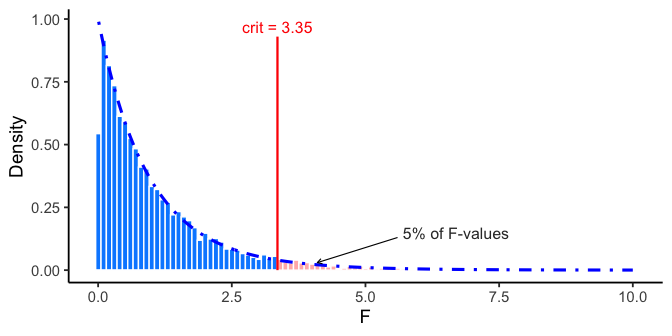
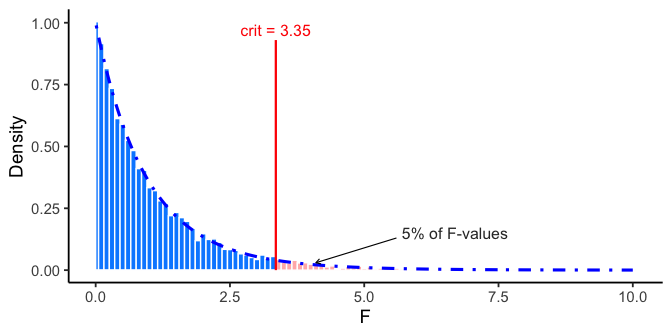
Ch8 correctness audit: 13 accepted fixes
Salamander data described as simulated (matches Lab 11); section renamed
'The full ANOVA workflow'; mean-square rationale corrected (SS_Between exceeds
SS_Within in the chapter's own example); F-distribution alt text, critical-F
first bin, interval-overlap alt text; F and MS_Between described in variance
terms; computed critical value in the Type I simulation. House style: visible
R calls, Method columns dropped, summary lead-ins, two bold pseudo-headings
promoted to ###, two captions.

diff --git a/docs/08-ANOVA.html b/docs/08-ANOVA.html
@@ -27,6 +27,41 @@ ul.task-list li input[type="checkbox"] {
   margin: 0 0.8em 0.2em -1em; /* quarto-specific, see https://github.com/quarto-dev/quarto-cli/issues/4556 */ 
   vertical-align: middle;
 }
+/* CSS for syntax highlighting */
+html { -webkit-text-size-adjust: 100%; }
+pre > code.sourceCode { white-space: pre; position: relative; }
+pre > code.sourceCode > span { display: inline-block; line-height: 1.25; }
+pre > code.sourceCode > span:empty { height: 1.2em; }
+.sourceCode { overflow: visible; }
+code.sourceCode > span { color: inherit; text-decoration: inherit; }
+div.sourceCode { margin: 1em 0; }
+pre.sourceCode { margin: 0; }
+@media screen {
+div.sourceCode { overflow: auto; }
+}
+@media print {
+pre > code.sourceCode { white-space: pre-wrap; }
+pre > code.sourceCode > span { text-indent: -5em; padding-left: 5em; }
+}
+pre.numberSource code
+  { counter-reset: source-line 0; }
+pre.numberSource code > span
+  { position: relative; left: -4em; counter-increment: source-line; }
+pre.numberSource code > span > a:first-child::before
+  { content: counter(source-line);
+    position: relative; left: -1em; text-align: right; vertical-align: baseline;
+    border: none; display: inline-block;
+    -webkit-touch-callout: none; -webkit-user-select: none;
+    -khtml-user-select: none; -moz-user-select: none;
+    -ms-user-select: none; user-select: none;
+    padding: 0 4px; width: 4em;
+  }
+pre.numberSource { margin-left: 3em;  padding-left: 4px; }
+div.sourceCode
+  {   }
+@media screen {
+pre > code.sourceCode > span > a:first-child::before { text-decoration: underline; }
+}
 /* CSS for citations */
 div.csl-bib-body { }
 div.csl-entry {
@@ -277,8 +312,10 @@ window.Quarto = {
   <ul class="collapse">
   <li><a href="#making-decisions" id="toc-making-decisions" class="nav-link" data-scroll-target="#making-decisions"><span class="header-section-number">8.3.1</span> Making decisions</a></li>
   <li><a href="#f-and-the-means" id="toc-f-and-the-means" class="nav-link" data-scroll-target="#f-and-the-means"><span class="header-section-number">8.3.2</span> F and the means</a></li>
+  <li><a href="#anova-is-an-omnibus-test" id="toc-anova-is-an-omnibus-test" class="nav-link" data-scroll-target="#anova-is-an-omnibus-test"><span class="header-section-number">8.3.3</span> ANOVA is an omnibus test</a></li>
+  <li><a href="#what-group-means-look-like-when-f-exceeds-the-critical-value" id="toc-what-group-means-look-like-when-f-exceeds-the-critical-value" class="nav-link" data-scroll-target="#what-group-means-look-like-when-f-exceeds-the-critical-value"><span class="header-section-number">8.3.4</span> What group means look like when <span class="math inline">\(F\)</span> exceeds the critical value</a></li>
   </ul></li>
-  <li><a href="#anova-on-real-data" id="toc-anova-on-real-data" class="nav-link" data-scroll-target="#anova-on-real-data"><span class="header-section-number">8.4</span> ANOVA on real data</a>
+  <li><a href="#the-full-anova-workflow" id="toc-the-full-anova-workflow" class="nav-link" data-scroll-target="#the-full-anova-workflow"><span class="header-section-number">8.4</span> The full ANOVA workflow</a>
   <ul class="collapse">
   <li><a href="#salamander-abundance-across-forest-types" id="toc-salamander-abundance-across-forest-types" class="nav-link" data-scroll-target="#salamander-abundance-across-forest-types"><span class="header-section-number">8.4.1</span> Salamander abundance across forest types</a></li>
   <li><a href="#checking-anovas-assumptions" id="toc-checking-anovas-assumptions" class="nav-link" data-scroll-target="#checking-anovas-assumptions"><span class="header-section-number">8.4.2</span> Checking ANOVA’s assumptions</a></li>
@@ -318,7 +355,7 @@ window.Quarto = {
     <div>
     <div class="quarto-title-meta-heading">Modified</div>
     <div class="quarto-title-meta-contents">
-      <p class="date-modified">September 29, 2026</p>
+      <p class="date-modified">September 30, 2026</p>
     </div>
   </div>
     
@@ -399,14 +436,14 @@ Figure&nbsp;8.1: Familywise Type I error rate as the number of independent t-tes
 <p><span class="math display">\[F = \frac{\text{measure of effect}}{\text{measure of error}}\]</span></p>
 <p>The difference is that <span class="math inline">\(F\)</span> uses variances for both the numerator and the denominator, so <span class="math inline">\(F\)</span> is a ratio of two variances: the variance you can explain (differences between group means) over the variance you can’t (leftover noise within each group).</p>
 <p><span class="math display">\[F = \frac{\text{Can explain}}{\text{Can't explain}}\]</span></p>
-<p>When the two are about the same size, <span class="math inline">\(F\approx 1\)</span>: group differences are no bigger than ordinary sampling noise. When explained variance is much larger than unexplained variance, <span class="math inline">\(F\)</span> climbs well above 1, which is evidence that the groups differ. When it’s smaller, <span class="math inline">\(F\)</span> drops below 1. An <span class="math inline">\(F\)</span> of 5 means the group means are spread out five times more than the noise within groups would spread them on its own. An <span class="math inline">\(F\)</span> of 0.6 means they are spread out less than that noise alone would typically produce.</p>
+<p>When the two are about the same size, <span class="math inline">\(F\approx 1\)</span>: group differences are no bigger than ordinary sampling noise. When explained variance is much larger than unexplained variance, <span class="math inline">\(F\)</span> climbs well above 1, which is evidence that the groups differ. When it’s smaller, <span class="math inline">\(F\)</span> drops below 1. An <span class="math inline">\(F\)</span> of 5 means the group means vary five times as much as within-group noise alone would make them vary, measured in squared units. An <span class="math inline">\(F\)</span> of 0.6 means they vary less than that noise alone would typically produce.</p>
 <p><a href="#fig-8betweenwithin" class="quarto-xref">Figure&nbsp;<span>8.2</span></a> shows both situations with the same noise. On the left, the group means differ by no more than the scatter within each group would produce. On the right, the means are separated by much more than that scatter. <span class="math inline">\(F\)</span> measures that separation relative to the within-group scatter.</p>
 <div class="cell">
 <div class="cell-output-display">
-<div id="fig-8betweenwithin" class="quarto-float quarto-figure quarto-figure-center anchored" alt="Two side-by-side panels on the same vertical scale, each showing three groups of 12 jittered points with a group mean and 95% confidence interval. In the left panel, labeled no real differences, the three means sit near 10 and their intervals overlap heavily. In the right panel, labeled means shifted, the means climb from about 10 to about 12 to about 16 and the intervals no longer overlap, while the spread of points within each group is the same as on the left.">
+<div id="fig-8betweenwithin" class="quarto-float quarto-figure quarto-figure-center anchored" alt="Two side-by-side panels on the same vertical scale, each showing three groups of 12 jittered points with a group mean and 95% confidence interval. In the left panel, labeled no real differences, the three means sit near 10 and their intervals overlap heavily. In the right panel, labeled means shifted, the means climb from about 10 to about 12 to about 16. The Group C interval is clear of the other two, and A and B overlap only slightly, while the spread of points within each group is the same as on the left.">
 <figure class="quarto-float quarto-float-fig figure">
 <div aria-describedby="fig-8betweenwithin-caption-0ceaefa1-69ba-4598-a22c-09a6ac19f8ca">
-<img src="08-ANOVA_files/figure-html/fig-8betweenwithin-1.png" class="img-fluid figure-img" style="width:100.0%" alt="Two side-by-side panels on the same vertical scale, each showing three groups of 12 jittered points with a group mean and 95% confidence interval. In the left panel, labeled no real differences, the three means sit near 10 and their intervals overlap heavily. In the right panel, labeled means shifted, the means climb from about 10 to about 12 to about 16 and the intervals no longer overlap, while the spread of points within each group is the same as on the left.">
+<img src="08-ANOVA_files/figure-html/fig-8betweenwithin-1.png" class="img-fluid figure-img" style="width:100.0%" alt="Two side-by-side panels on the same vertical scale, each showing three groups of 12 jittered points with a group mean and 95% confidence interval. In the left panel, labeled no real differences, the three means sit near 10 and their intervals overlap heavily. In the right panel, labeled means shifted, the means climb from about 10 to about 12 to about 16. The Group C interval is clear of the other two, and A and B overlap only slightly, while the spread of points within each group is the same as on the left.">
 </div>
 <figcaption class="quarto-float-caption-bottom quarto-float-caption quarto-float-fig" id="fig-8betweenwithin-caption-0ceaefa1-69ba-4598-a22c-09a6ac19f8ca">
 Figure&nbsp;8.2: The same within-group noise with no real differences (left) and with the group means shifted (right). Three groups of 12; small points are individual scores, large dots are group means, bars are 95% confidence intervals.
@@ -732,11 +769,11 @@ Figure&nbsp;8.2: The same within-group noise with no real differences (left) and
 </section>
 <section id="mean-squares" class="level3" data-number="8.2.6">
 <h3 data-number="8.2.6" class="anchored" data-anchor-id="mean-squares"><span class="header-section-number">8.2.6</span> Mean squares</h3>
-<p>We’re building toward <span class="math inline">\(F=\dfrac{\text{measure of effect}}{\text{measure of error}}\)</span>, and it’s tempting to just divide <span class="math inline">\(SS_\text{Between}\)</span> by <span class="math inline">\(SS_\text{Within}\)</span> directly. The problem is that <span class="math inline">\(SS_\text{Within}\)</span> sums over all 9 individual scores while <span class="math inline">\(SS_\text{Between}\)</span> sums over only 3 group means, so <span class="math inline">\(SS_\text{Within}\)</span> is almost always the much larger number, and the raw ratio wouldn’t be interpretable the way <span class="math inline">\(t\)</span> or <span class="math inline">\(z\)</span> are.</p>
+<p>We’re building toward <span class="math inline">\(F=\dfrac{\text{measure of effect}}{\text{measure of error}}\)</span>, and it’s tempting to just divide <span class="math inline">\(SS_\text{Between}\)</span> by <span class="math inline">\(SS_\text{Within}\)</span> directly. The problem is that each sum of squares grows with the number of independent pieces that go into it. <span class="math inline">\(SS_\text{Between}\)</span> is built from 3 group means and <span class="math inline">\(SS_\text{Within}\)</span> from 9 individual deviations, so their raw ratio has no fixed scale to compare against the way <span class="math inline">\(t\)</span> or <span class="math inline">\(z\)</span> does.</p>
 <p>The fix is to convert each sum of squares into an average, or <strong>mean square</strong>, by dividing by its degrees of freedom (rather than its raw count, since these are estimated quantities):</p>
 <p><span class="math display">\[MS_\text{Between} = \frac{SS_\text{Between}}{df_\text{Between}} = \frac{72}{2} = 36\]</span></p>
 <p><span class="math display">\[MS_\text{Within} = \frac{SS_\text{Within}}{df_\text{Within}} = \frac{230}{6} = 38.33\]</span></p>
-<p>Both are variances: <span class="math inline">\(MS_\text{Between}\)</span> measures how much the group means vary, and <span class="math inline">\(MS_\text{Within}\)</span> measures how much individual scores vary around their own group’s mean.</p>
+<p>Both are variances. <span class="math inline">\(MS_\text{Within}\)</span> measures how much individual scores vary around their own group’s mean. <span class="math inline">\(MS_\text{Between}\)</span> measures how much the group means vary, multiplied by the number of scores per group, which puts it on the same scale as <span class="math inline">\(MS_\text{Within}\)</span>.</p>
 </section>
 <section id="calculate-f" class="level3" data-number="8.2.7">
 <h3 data-number="8.2.7" class="anchored" data-anchor-id="calculate-f"><span class="header-section-number">8.2.7</span> Calculate <span class="math inline">\(F\)</span></h3>
@@ -791,10 +828,10 @@ Figure&nbsp;8.2: The same within-group noise with no real differences (left) and
 <p>We run this simulation 10,000 times. Each time we compute <span class="math inline">\(F\)</span> from the sample data. The histogram of those 10,000 <span class="math inline">\(F\)</span>-values, shown in <a href="#fig-8fnull" class="quarto-xref">Figure&nbsp;<span>8.3</span></a>, is the null distribution of <span class="math inline">\(F\)</span> for this design.</p>
 <div class="cell">
 <div class="cell-output-display">
-<div id="fig-8fnull" class="quarto-float quarto-figure quarto-figure-center anchored" alt="Histogram of 10,000 simulated F values from a null population distribution, with the theoretical F distribution for 2 and 27 degrees of freedom drawn over it as a blue dot-dash curve that follows the bars closely. The histogram starts at zero, rises to a tall peak below 1, and then tapers off in a long right-hand tail, with very few values reaching as high as 5.">
+<div id="fig-8fnull" class="quarto-float quarto-figure quarto-figure-center anchored" alt="Histogram of 10,000 simulated F values from a null population distribution, with the theoretical F distribution for 2 and 27 degrees of freedom drawn over it as a blue dot-dash curve that follows the bars closely. The histogram is tallest at zero and falls off steadily into a long right-hand tail, with very few values reaching as high as 5.">
 <figure class="quarto-float quarto-float-fig figure">
 <div aria-describedby="fig-8fnull-caption-0ceaefa1-69ba-4598-a22c-09a6ac19f8ca">
-<img src="08-ANOVA_files/figure-html/fig-8fnull-1.png" class="img-fluid figure-img" style="width:100.0%" alt="Histogram of 10,000 simulated F values from a null population distribution, with the theoretical F distribution for 2 and 27 degrees of freedom drawn over it as a blue dot-dash curve that follows the bars closely. The histogram starts at zero, rises to a tall peak below 1, and then tapers off in a long right-hand tail, with very few values reaching as high as 5.">
+<img src="08-ANOVA_files/figure-html/fig-8fnull-1.png" class="img-fluid figure-img" style="width:100.0%" alt="Histogram of 10,000 simulated F values from a null population distribution, with the theoretical F distribution for 2 and 27 degrees of freedom drawn over it as a blue dot-dash curve that follows the bars closely. The histogram is tallest at zero and falls off steadily into a long right-hand tail, with very few values reaching as high as 5.">
 </div>
 <figcaption class="quarto-float-caption-bottom quarto-float-caption quarto-float-fig" id="fig-8fnull-caption-0ceaefa1-69ba-4598-a22c-09a6ac19f8ca">
 Figure&nbsp;8.3: A simulation of 10,000 experiments from a null population distribution with no group differences. The histogram shows 10,000 <span class="math inline">\(F\)</span>-values, one for each simulation. These are values that F can take in this situation. All of these <span class="math inline">\(F\)</span>-values were produced by random sampling error.
@@ -821,7 +858,7 @@ Figure&nbsp;8.3: A simulation of 10,000 experiments from a null population distr
 <img src="08-ANOVA_files/figure-html/fig-8criticalF-1.png" class="img-fluid figure-img" style="width:100.0%" alt="The same histogram of 10,000 simulated F values with the blue dot-dash F curve over it, now with a red vertical line labeled crit equals 3.35. The bars beyond that line are shaded red and labeled '5% of F-values'; they form only the thin tail at the far right of the histogram.">
 </div>
 <figcaption class="quarto-float-caption-bottom quarto-float-caption quarto-float-fig" id="fig-8criticalF-caption-0ceaefa1-69ba-4598-a22c-09a6ac19f8ca">
-Figure&nbsp;8.4: The critical value for <span class="math inline">\(F\)</span> where 5% of all <span class="math inline">\(F\)</span>-values lie beyond this point
+Figure&nbsp;8.4: The critical value of <span class="math inline">\(F\)</span> at <span class="math inline">\(\alpha = .05\)</span> for df = 2 and 27. Five percent of the simulated <span class="math inline">\(F\)</span>-values lie beyond it.
 </figcaption>
 </figure>
 </div>
@@ -833,7 +870,9 @@ Figure&nbsp;8.4: The critical value for <span class="math inline">\(F\)</span> w
 <h3 data-number="8.3.2" class="anchored" data-anchor-id="f-and-the-means"><span class="header-section-number">8.3.2</span> F and the means</h3>
 <p>An <span class="math inline">\(F\)</span>-value and its <span class="math inline">\(p\)</span>-value don’t, by themselves, tell us what the group means actually were. If a study reports <span class="math inline">\(F(2,27)=6.0\)</span>, <span class="math inline">\(p=.007\)</span>, we know only that an <span class="math inline">\(F\)</span> this large would happen by chance less than 1% of the time. We still don’t know which means differed, or by how much, without looking at the group means directly (the ANOVA table itself doesn’t report them).</p>
 <p>A large <span class="math inline">\(F\)</span> with a small <span class="math inline">\(p\)</span>-value does tell us one thing: we have evidence that the group means differ somewhere, because the variance explained by group membership (the numerator of <span class="math inline">\(F\)</span>) is large relative to the variance within groups. Finding <em>which</em> means differ requires a separate step.</p>
-<p><strong>ANOVA is an omnibus test.</strong></p>
+</section>
+<section id="anova-is-an-omnibus-test" class="level3" data-number="8.3.3">
+<h3 data-number="8.3.3" class="anchored" data-anchor-id="anova-is-an-omnibus-test"><span class="header-section-number">8.3.3</span> ANOVA is an omnibus test</h3>
 <p>This is why ANOVA is called an omnibus test: omnibus meaning “comprising several items.” It answers one overall question that stands in for several pairwise ones at once.</p>
 <p>With three groups A, B, and C, there are three possible pairwise differences: A vs.&nbsp;B, B vs.&nbsp;C, and A vs.&nbsp;C. We could test each with a separate <span class="math inline">\(t\)</span>-test, or ask the more general omnibus question with a single ANOVA:</p>
 <p>Hypothesis of no differences anywhere: <span class="math inline">\(A=B=C\)</span></p>
@@ -845,7 +884,9 @@ Figure&nbsp;8.4: The critical value for <span class="math inline">\(F\)</span> w
 <li><span class="math inline">\(A\neq B\)</span>, <span class="math inline">\(B\neq C\)</span>, and <span class="math inline">\(A\neq C\)</span> (all three differ)</li>
 </ol>
 <p>A small <span class="math inline">\(F\)</span> with a large <span class="math inline">\(p\)</span>-value means we don’t reject the hypothesis of no differences: we have no evidence the three group means differ, and whatever gaps exist could easily be chance. A large <span class="math inline">\(F\)</span> with a small <span class="math inline">\(p\)</span>-value (below <span class="math inline">\(\alpha\)</span>) means we reject that hypothesis and conclude at least one group mean differs from the others. That’s the omnibus test: it tells us <em>whether</em> the means differ, not yet <em>which</em> ones.</p>
-<p><strong>What group means look like when <span class="math inline">\(F\)</span> exceeds the critical value.</strong></p>
+</section>
+<section id="what-group-means-look-like-when-f-exceeds-the-critical-value" class="level3" data-number="8.3.4">
+<h3 data-number="8.3.4" class="anchored" data-anchor-id="what-group-means-look-like-when-f-exceeds-the-critical-value"><span class="header-section-number">8.3.4</span> What group means look like when <span class="math inline">\(F\)</span> exceeds the critical value</h3>
 <p>The 10,000 simulated experiments never showed the group means behind each <span class="math inline">\(F\)</span>-value. Earlier we found a critical value of 3.35: only 5% of <span class="math inline">\(F\)</span>-values from this null distribution exceed it. <a href="#fig-8sigdiffs" class="quarto-xref">Figure&nbsp;<span>8.5</span></a> shows the group means for 10 simulations with <span class="math inline">\(F&gt;3.35\)</span>. Every one of them was still drawn from the same null population distribution, with no real group differences. Rejecting the null whenever <span class="math inline">\(F\)</span> clears 3.35 is the right long-run decision rule, but every one of these particular simulations would be a Type I error if we did.</p>
 <div class="cell">
 <div class="cell-output-display">
@@ -855,7 +896,7 @@ Figure&nbsp;8.4: The critical value for <span class="math inline">\(F\)</span> w
 <img src="08-ANOVA_files/figure-html/fig-8sigdiffs-1.png" class="img-fluid figure-img" style="width:100.0%" alt="Ten small panels of blue bar charts with three bars each for site types A, B, and C, all filtered to simulations where F exceeded the critical value of 3.35. In every panel at least one bar's error bars do not overlap with another's, giving the visual impression of a real difference even though all ten panels were generated with no true group difference.">
 </div>
 <figcaption class="quarto-float-caption-bottom quarto-float-caption quarto-float-fig" id="fig-8sigdiffs-caption-0ceaefa1-69ba-4598-a22c-09a6ac19f8ca">
-Figure&nbsp;8.5: Different patterns of group means under the null when F is above critical value (these are all type I Errors).
+Figure&nbsp;8.5: Group means from 10 null simulations in which <span class="math inline">\(F\)</span> exceeded the critical value. Every one of them is a Type I error.
 </figcaption>
 </figure>
 </div>
@@ -864,10 +905,10 @@ Figure&nbsp;8.5: Different patterns of group means under the null when F is abov
 <p>Every panel of <a href="#fig-8sigdiffs" class="quarto-xref">Figure&nbsp;<span>8.5</span></a> now shows at least one group mean whose error bars don’t overlap with another’s: a visually convincing “real” difference. All ten are Type I errors. When this happens by chance, the data show a pattern, the <span class="math inline">\(F\)</span>-value is large, and the <span class="math inline">\(p\)</span>-value is small. A Type I error looks exactly like a real effect, and nothing in the output distinguishes them.</p>
 </section>
 </section>
-<section id="anova-on-real-data" class="level2" data-number="8.4">
-<h2 data-number="8.4" class="anchored" data-anchor-id="anova-on-real-data"><span class="header-section-number">8.4</span> ANOVA on real data</h2>
+<section id="the-full-anova-workflow" class="level2" data-number="8.4">
+<h2 data-number="8.4" class="anchored" data-anchor-id="the-full-anova-workflow"><span class="header-section-number">8.4</span> The full ANOVA workflow</h2>
 <p>We’ve covered the fundamentals of ANOVA: how to compute an <span class="math inline">\(F\)</span>-statistic from the data, and how to interpret it along with its <span class="math inline">\(p\)</span>-value. In practice, software handles these calculations for you, but you still need to know what the numbers mean to interpret them correctly. That is why we computed one ANOVA by hand.</p>
-<p>The following example applies the full ANOVA workflow, from descriptive summaries through the omnibus <span class="math inline">\(F\)</span> test to post-hoc comparisons, to a real ecological dataset. This is the same dataset used in Lab 11.</p>
+<p>The following example applies the full ANOVA workflow, from descriptive summaries through the omnibus <span class="math inline">\(F\)</span> test to post-hoc comparisons, to a simulated field study of salamanders. Lab 11 uses the same data.</p>
 <section id="salamander-abundance-across-forest-types" class="level3" data-number="8.4.1">
 <h3 data-number="8.4.1" class="anchored" data-anchor-id="salamander-abundance-across-forest-types"><span class="header-section-number">8.4.1</span> Salamander abundance across forest types</h3>
 <p>Plethodontid salamanders are sensitive indicators of forest condition: they depend on moist microhabitats, abundant coarse woody debris, and stable soil temperatures, all features that decline with forest disturbance. A field ecologist surveys salamander abundance across three forest types, laid out in <a href="#fig-8salamanderdesign" class="quarto-xref">Figure&nbsp;<span>8.6</span></a>.</p>
@@ -908,6 +949,9 @@ Figure&nbsp;8.7: Mean salamander abundance (individuals per plot) across three f
 <p>Before running the ANOVA, check whether its assumptions hold. (Recall from Chapter 6 that independence is the universal assumption that applies to every test we cover and won’t be re-listed here; what follows are ANOVA’s <em>test-specific</em> assumptions.)</p>
 <p>ANOVA has two: <strong>homogeneity of variance</strong> (the groups’ spread around their own means should be roughly comparable) and approximately normal residuals (each plot’s count minus its forest type’s mean, the same deviations that make up <span class="math inline">\(SS_\text{Within}\)</span>, should be roughly bell-shaped). Both matter because the <span class="math inline">\(F\)</span>-test pools the within-group spread of every group into one error variance, <span class="math inline">\(MS_\text{Within}\)</span>, and then compares <span class="math inline">\(F\)</span> to a null distribution that assumes normal residuals. Pooling only makes sense when the groups have similar spread.</p>
 <div class="cell">
+<div class="code-copy-outer-scaffold"><div class="sourceCode cell-code" id="cb1"><pre class="sourceCode r code-with-copy"><code class="sourceCode r"><span id="cb1-1"><a href="#cb1-1" aria-hidden="true" tabindex="-1"></a>car<span class="sc">::</span><span class="fu">leveneTest</span>(abundance <span class="sc">~</span> forest_type, <span class="at">data =</span> salamander_df)</span></code></pre></div><button title="Copy to Clipboard" class="code-copy-button"><i class="bi"></i></button></div>
+</div>
+<div class="cell">
 <div class="cell-output-display">
 <table class="caption-top table table-sm table-striped small">
 <caption>Levene's test for homogeneity of variance</caption>
@@ -931,6 +975,9 @@ Figure&nbsp;8.7: Mean salamander abundance (individuals per plot) across three f
 </div>
 </div>
 <div class="cell">
+<div class="code-copy-outer-scaffold"><div class="sourceCode cell-code" id="cb2"><pre class="sourceCode r code-with-copy"><code class="sourceCode r"><span id="cb2-1"><a href="#cb2-1" aria-hidden="true" tabindex="-1"></a><span class="fu">shapiro.test</span>(<span class="fu">residuals</span>(aov_out))</span></code></pre></div><button title="Copy to Clipboard" class="code-copy-button"><i class="bi"></i></button></div>
+</div>
+<div class="cell">
 <div class="cell-output-display">
 <table class="caption-top table table-sm table-striped small">
 <caption>Shapiro-Wilk test on ANOVA residuals</caption>
@@ -938,14 +985,12 @@ Figure&nbsp;8.7: Mean salamander abundance (individuals per plot) across three f
 <tr class="header">
 <th style="text-align: right;" data-quarto-table-cell-role="th">Statistic (W)</th>
 <th style="text-align: left;" data-quarto-table-cell-role="th">p-value</th>
-<th style="text-align: left;" data-quarto-table-cell-role="th">Method</th>
 </tr>
 </thead>
 <tbody>
 <tr class="odd">
 <td style="text-align: right;">0.93</td>
 <td style="text-align: left;">0.078</td>
-<td style="text-align: left;">Shapiro-Wilk normality test</td>
 </tr>
 </tbody>
 </table>
@@ -954,6 +999,10 @@ Figure&nbsp;8.7: Mean salamander abundance (individuals per plot) across three f
 <p>Levene’s test <span class="citation" data-cites="Levene1960 BrownForsythe1974">(<a href="references.html#ref-Levene1960" role="doc-biblioref">Levene 1960</a>; <a href="references.html#ref-BrownForsythe1974" role="doc-biblioref">Brown and Forsythe 1974</a>)</span> gives <span class="math inline">\(F(2,21) = 0.52\)</span>, <span class="math inline">\(p = .60\)</span>: no evidence of unequal variance across forest types. The Shapiro-Wilk test <span class="citation" data-cites="Shapiro1965">(<a href="references.html#ref-Shapiro1965" role="doc-biblioref">Shapiro and Wilk 1965</a>)</span> on the model’s residuals gives <span class="math inline">\(W = 0.93\)</span>, <span class="math inline">\(p = .078\)</span>: no evidence against normality either. Both checks are consistent with the individual plots in <a href="#fig-8salamanderData" class="quarto-xref">Figure&nbsp;<span>8.7</span></a>: similar spread across groups, no glaring outliers.</p>
 <p><strong>A word of caution about formal assumption tests.</strong> It’s tempting to treat Levene’s test as a strict gate, where significant means “stop” and not significant means “proceed.” Resist that. With a small sample (exactly when a violated assumption matters most), these tests have low power and will often say “no problem” even when there is one. With a very large sample (where ANOVA is fairly robust to mild violations anyway), they have high power and will flag trivial differences as “significant.” A formal test is one piece of evidence, not the whole verdict, so look at the diagnostic plots too and use judgment. In practice, one-way ANOVA is moderately robust to mild departures from these assumptions, especially with balanced group sizes like we have here (8 plots per forest type). Worry most when small, unbalanced samples come with visibly skewed data or very different spreads. In that case, the nonparametric alternative below is the better choice.</p>
 <p>With the assumptions reasonable, we run the one-way ANOVA to test whether these differences are larger than expected by chance alone.</p>
+<div class="cell">
+<div class="code-copy-outer-scaffold"><div class="sourceCode cell-code" id="cb3"><pre class="sourceCode r code-with-copy"><code class="sourceCode r"><span id="cb3-1"><a href="#cb3-1" aria-hidden="true" tabindex="-1"></a>aov_out <span class="ot">&lt;-</span> <span class="fu">aov</span>(abundance <span class="sc">~</span> forest_type, <span class="at">data =</span> salamander_df)</span>
+<span id="cb3-2"><a href="#cb3-2" aria-hidden="true" tabindex="-1"></a><span class="fu">summary</span>(aov_out)</span></code></pre></div><button title="Copy to Clipboard" class="code-copy-button"><i class="bi"></i></button></div>
+</div>
 <div class="cell">
 <div id="tbl-8salamanderANOVA" class="cell quarto-float quarto-figure quarto-figure-center anchored">
 <figure class="quarto-float quarto-float-tbl figure">
@@ -1061,6 +1110,9 @@ Table&nbsp;8.2: Eta-squared for the effect of forest type on salamander abundanc
 <h3 data-number="8.4.4" class="anchored" data-anchor-id="post-hoc-comparisons-with-tukey-hsd"><span class="header-section-number">8.4.4</span> Post-hoc comparisons with Tukey HSD</h3>
 <p>The omnibus <span class="math inline">\(F\)</span> test tells us that at least one group mean differs, but not which pairs. To identify which forest types differ, we use <strong>Tukey’s Honestly Significant Difference (HSD)</strong> test <span class="citation" data-cites="Tukey1949">(<a href="references.html#ref-Tukey1949" role="doc-biblioref">Tukey 1949</a>)</span>. Tukey HSD controls the familywise error rate across all pairwise comparisons, making it the appropriate choice after a significant ANOVA.</p>
 <div class="cell">
+<div class="code-copy-outer-scaffold"><div class="sourceCode cell-code" id="cb4"><pre class="sourceCode r code-with-copy"><code class="sourceCode r"><span id="cb4-1"><a href="#cb4-1" aria-hidden="true" tabindex="-1"></a><span class="fu">TukeyHSD</span>(aov_out)</span></code></pre></div><button title="Copy to Clipboard" class="code-copy-button"><i class="bi"></i></button></div>
+</div>
+<div class="cell">
 <div id="tbl-8tukey" class="cell quarto-float quarto-figure quarto-figure-center anchored">
 <figure class="quarto-float quarto-float-tbl figure">
 <figcaption class="quarto-float-caption-top quarto-float-caption quarto-float-tbl" id="tbl-8tukey-caption-0ceaefa1-69ba-4598-a22c-09a6ac19f8ca">
@@ -1146,6 +1198,9 @@ Figure&nbsp;8.8: Mean salamander abundance with Tukey letters. Old-growth carrie
 <p><strong>How it works, conceptually.</strong> Rank every observation across all groups together, from smallest to largest, ignoring group membership. Then check whether the average rank differs more across groups than chance alone would produce. If forest type truly matters, one group’s observations should occupy systematically higher or lower ranks than the others.</p>
 <p><strong>Its assumption.</strong> Kruskal-Wallis does not require normality. Like the Mann-Whitney-Wilcoxon test, it is easiest to interpret as a test of differences in location (median) when the groups’ distributions have similar shape. If the shapes differ a lot, a significant result tells you the groups differ, but not whether that difference is in location, spread, or shape.</p>
 <div class="cell">
+<div class="code-copy-outer-scaffold"><div class="sourceCode cell-code" id="cb5"><pre class="sourceCode r code-with-copy"><code class="sourceCode r"><span id="cb5-1"><a href="#cb5-1" aria-hidden="true" tabindex="-1"></a><span class="fu">kruskal.test</span>(abundance <span class="sc">~</span> forest_type, <span class="at">data =</span> salamander_df)</span></code></pre></div><button title="Copy to Clipboard" class="code-copy-button"><i class="bi"></i></button></div>
+</div>
+<div class="cell">
 <div class="cell-output-display">
 <table class="caption-top table table-sm table-striped small">
 <caption>Kruskal-Wallis test on salamander abundance by forest type</caption>
@@ -1154,7 +1209,6 @@ Figure&nbsp;8.8: Mean salamander abundance with Tukey letters. Old-growth carrie
 <th style="text-align: right;" data-quarto-table-cell-role="th">Statistic (χ²)</th>
 <th style="text-align: left;" data-quarto-table-cell-role="th">p-value</th>
 <th style="text-align: right;" data-quarto-table-cell-role="th">df</th>
-<th style="text-align: left;" data-quarto-table-cell-role="th">Method</th>
 </tr>
 </thead>
 <tbody>
@@ -1162,7 +1216,6 @@ Figure&nbsp;8.8: Mean salamander abundance with Tukey letters. Old-growth carrie
 <td style="text-align: right;">13.09</td>
 <td style="text-align: left;">0.001</td>
 <td style="text-align: right;">2</td>
-<td style="text-align: left;">Kruskal-Wallis rank sum test</td>
 </tr>
 </tbody>
 </table>
@@ -1170,6 +1223,10 @@ Figure&nbsp;8.8: Mean salamander abundance with Tukey letters. Old-growth carrie
 </div>
 <p><span class="math inline">\(\chi^2(2) = 13.09\)</span>, <span class="math inline">\(p = .001\)</span>: significant, the same conclusion as the ANOVA (<span class="math inline">\(F(2,21)=14.60\)</span>, <span class="math inline">\(p&lt;.001\)</span>). The two tests agree, as expected when the parametric assumptions hold, as ours did here.</p>
 <p><strong>Post-hoc comparisons.</strong> Just as a significant ANOVA needs Tukey HSD to identify <em>which</em> groups differ, a significant Kruskal-Wallis result needs its own follow-up: pairwise rank-sum tests (Mann-Whitney-Wilcoxon, applied to each pair) with a correction for running multiple comparisons <span class="citation" data-cites="Holm1979">(<a href="references.html#ref-Holm1979" role="doc-biblioref">Holm 1979</a>)</span>.</p>
+<div class="cell">
+<div class="code-copy-outer-scaffold"><div class="sourceCode cell-code" id="cb6"><pre class="sourceCode r code-with-copy"><code class="sourceCode r"><span id="cb6-1"><a href="#cb6-1" aria-hidden="true" tabindex="-1"></a><span class="fu">pairwise.wilcox.test</span>(salamander_df<span class="sc">$</span>abundance, salamander_df<span class="sc">$</span>forest_type,</span>
+<span id="cb6-2"><a href="#cb6-2" aria-hidden="true" tabindex="-1"></a>                     <span class="at">p.adjust.method =</span> <span class="st">"holm"</span>)</span></code></pre></div><button title="Copy to Clipboard" class="code-copy-button"><i class="bi"></i></button></div>
+</div>
 <div class="cell">
 <div class="cell-output-display">
 <table class="caption-top table table-sm table-striped small">
@@ -1296,9 +1353,9 @@ Table&nbsp;8.4: Seasonal mean PM2.5 (µg/m³) at four monitoring stations, with 
 <ul>
 <li><strong>Why not just run more <span class="math inline">\(t\)</span>-tests.</strong> Each comparison carries its own chance of a false positive, and they accumulate: with <span class="math inline">\(m\)</span> comparisons the familywise error rate is <span class="math inline">\(1-(1-\alpha)^m\)</span>, which is already 14% for three groups.</li>
 <li><strong>Partition the variation.</strong> Total variation splits into a piece explained by group membership (<span class="math inline">\(SS_\text{Between}\)</span>) and unexplained residual variation (<span class="math inline">\(SS_\text{Within}\)</span>).</li>
-<li><span class="math inline">\(F\)</span> is a ratio of the two. After adjusting each sum of squares for its degrees of freedom, <span class="math inline">\(F = MS_\text{Between} / MS_\text{Within}\)</span>. A large <span class="math inline">\(F\)</span> means between-group differences are large relative to within-group noise.</li>
+<li><strong><span class="math inline">\(F\)</span> is a ratio of the two.</strong> After adjusting each sum of squares for its degrees of freedom, <span class="math inline">\(F = MS_\text{Between} / MS_\text{Within}\)</span>. A large <span class="math inline">\(F\)</span> means between-group differences are large relative to within-group noise.</li>
 <li><strong>Two steps, always in order.</strong> First the omnibus test: do <em>any</em> group means differ? Only if that is significant do you run post-hoc comparisons (Tukey HSD) to find out <em>which</em> pairs differ.</li>
-<li><span class="math inline">\(\eta^2\)</span> is the effect size. <span class="math inline">\(SS_\text{Between}/SS_\text{Total}\)</span> is the proportion of variation explained by the grouping variable. It is the same quantity as regression’s <span class="math inline">\(R^2\)</span>, and it does not depend on sample size the way <span class="math inline">\(p\)</span> does, so report it alongside <span class="math inline">\(F\)</span>.</li>
+<li><strong><span class="math inline">\(\eta^2\)</span> is the effect size.</strong> <span class="math inline">\(SS_\text{Between}/SS_\text{Total}\)</span> is the proportion of variation explained by the grouping variable. It is the same quantity as regression’s <span class="math inline">\(R^2\)</span>, and it does not depend on sample size the way <span class="math inline">\(p\)</span> does, so report it alongside <span class="math inline">\(F\)</span>.</li>
 <li><strong>Check the assumptions.</strong> ANOVA needs approximately equal variances across groups (Levene’s test) and roughly normal residuals. Treat formal tests as evidence rather than a gate, since they have least power exactly when small samples make violations matter most.</li>
 <li><strong>When assumptions fail.</strong> The Kruskal-Wallis test is the rank-based alternative, with <code>pairwise.wilcox.test()</code> as its post-hoc counterpart.</li>
 <li><strong>Repeated measures.</strong> When the same units are measured under every condition, repeated-measures ANOVA splits <span class="math inline">\(SS_\text{Within}\)</span> into <span class="math inline">\(SS_\text{Subjects}\)</span> and a smaller <span class="math inline">\(SS_\text{Error}\)</span>. The smaller error term is why it has more power, the same reason the paired <span class="math inline">\(t\)</span>-test does.</li>
